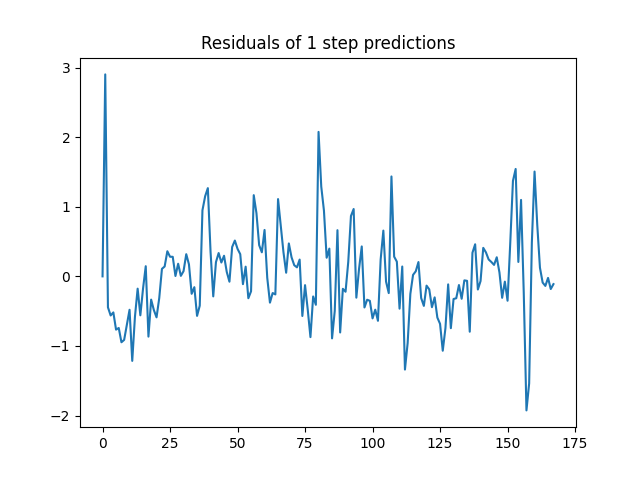
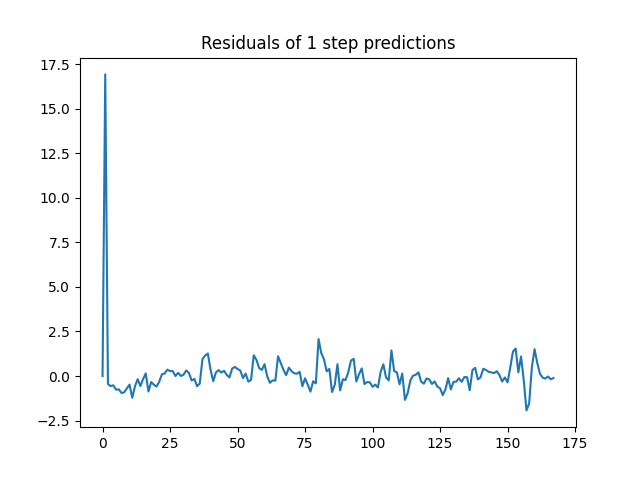
Fix index 1 error

diff --git a/exercise2_4.py b/exercise2_4.py
@@ -1,0 +1,213 @@
+import matplotlib.pyplot as plt
+import pandas as pd
+import numpy as np
+from scipy.optimize import minimize
+from statsmodels.graphics.tsaplots import plot_acf, plot_pacf
+import scipy.stats as stats
+from matplotlib.pyplot import cm
+
+# Load data
+df = pd.read_csv("transformer_data.csv")
+matrix = df.to_numpy()
+u = matrix[:, 2:]  # 3 exogenous inputs
+Y = df["Y"].values
+
+# ------------------------------
+# 2D Kalman Filter Setup
+# ------------------------------
+def unpack_parameters(theta):
+    A = theta[0:4].reshape(2, 2)         # A: 2x2
+    B = theta[4:10].reshape(2, 3)        # B: 2x3
+    C = theta[10:12].reshape(1, 2)       # C: 1x2
+    Q = np.diag(np.exp(theta[12:14]))    # Q: diagonal 2x2, exponentiated for positivity
+    R = np.exp(theta[14])               # R: scalar, exponentiated
+    x0 = theta[15:17]                   # Initial state: 2D
+    e = theta[17]                       # Observation bias
+    return A, B, C, Q, R, x0, e
+
+def kalman_filter(y, u, theta):
+    A, B, C, Q, R, x0, e = unpack_parameters(theta)
+    n = len(y)
+
+    x_pred = np.zeros((n, 2))
+    P_pred = np.zeros((n, 2, 2))
+    x_filt = np.zeros((n, 2))
+    P_filt = np.zeros((n, 2, 2))
+    log_likelihoods = np.zeros(n-1)
+    innov   = np.zeros(n)
+    S_t = np.zeros(n)
+    x_filt[0] = x0
+    P_filt[0] = np.eye(2)
+
+    for t in range(1, n):
+        # Predict
+        x_pred[t] = A @ x_filt[t-1] + B @ u[t-1]
+        P_pred[t] = A @ P_filt[t-1] @ A.T + Q
+
+        # Update
+        y_pred = C @ x_pred[t] + e
+        innov[t] = (y[t] - y_pred).item()
+        S_t[t] = ((C @ P_pred[t] @ C.T) + R).item()
+        K_t = P_pred[t] @ C.T / S_t[t]
+
+        x_filt[t] = x_pred[t] + (K_t.flatten() * innov[t])
+        P_filt[t] = (np.eye(2) - K_t @ C) @ P_pred[t]
+
+        log_likelihoods[t-1] = -0.5 * (np.log(2 * np.pi) + np.log(S_t[t]) + (innov[t] ** 2) / S_t[t])
+    log_likelihood = np.sum(log_likelihoods)
+
+    return x_pred, P_pred, x_filt, P_filt, innov, S_t, log_likelihood
+
+def negative_log_likelihood(theta, y, u):
+    *_, log_likelihood = kalman_filter(y, u, theta)
+    return -log_likelihood
+
+def estimate_model(y, u):
+    # Initial values
+    theta0 = np.array([
+        1, 0.0, 0.0, 1,            # A (flattened)
+        0.1, 0.0, 0.0,                 # B row 1
+        0.0, 0.1, 0.0,                 # B row 2
+        1.0, 0.0,                      # C
+        1, 1,      # Q diag (log for positivity)
+        1,                   # R (log for positivity)
+        20.0, 20.0,                      # x0
+        0.0                            # e
+    ])
+    bounds = [(-2,2)]*4 + [(-5,5)]*6 + [(-5,5)]*2 + [(None,None)]*6
+    result = minimize(negative_log_likelihood, theta0, args=(y, u),bounds = bounds,
+                      method="L-BFGS-B", options={'maxiter': 5000})
+    return result
+
+# Estimate
+result = estimate_model(Y, u)
+theta_hat = result.x
+print("Estimated parameters:", theta_hat)
+
+# Predict
+A, B, C, Q, R, x0, e = unpack_parameters(theta_hat)
+# run filter once more with the MLE
+x_p, P_p, x_filt, _, innov, _, _ = kalman_filter(Y, u, theta_hat)
+
+cols = cm.rainbow(np.linspace(0, 1, 3))   # three distinct colours
+
+fig, ax1 = plt.subplots(figsize=(10, 5))
+
+# -- latent states (primary axis) ---------------------------------------------
+ax1.plot(df["time"], x_filt[:, 0], label=r"$x_{1,t}$")
+ax1.plot(df["time"], x_filt[:, 1], label=r"$x_{2,t}$")
+
+# exogenous inputs Ta and S on the primary axis
+ax1.plot(df["time"], df["Ta"], color=cols[0], ls="--", alpha=0.5,
+         label=r"$T_{a,t}$")
+ax1.plot(df["time"], df["I"],  color=cols[1], ls="--", alpha=0.5,
+         label=r"$\Phi_{I,t}$")
+
+ax1.set_xlabel("Time")
+ax1.set_ylabel("State / Inputs")                    
+ax1.set_title("Kalman-filter state estimates and exogenous inputs")
+
+# -- secondary axis for I ------------------------------------------------------
+ax2 = ax1.twinx()
+ax2.plot(df["time"], df["S"], color=cols[2], ls="--", alpha=0.5,
+         label=r"$\Phi_{s,t}$")
+ax2.set_ylabel(r"$\Phi_{s,t}$ (secondary axis)")
+
+# -- combined legend -----------------------------------------------------------
+handles1, labels1 = ax1.get_legend_handles_labels()
+handles2, labels2 = ax2.get_legend_handles_labels()
+ax1.legend(handles1 + handles2, labels1 + labels2, loc="upper right")
+
+fig.tight_layout()
+fig.savefig("images/2.4/kalman_filter_state_estimates_w_exogenous.png")
+
+plt.clf()
+plt.plot(df["time"], x_filt)
+plt.title("Kalman Filter State Estimates")
+plt.xlabel("Time")
+plt.ylabel("State")
+plt.legend(["$x_{1,t}$", "$x_{2,t}$"])
+plt.savefig("images/2.4/kalman_filter_state_estimates.png")
+
+
+# Now we save Matrices A and B in csv format
+A = pd.DataFrame(A)
+A.to_csv("images/2.4/A.csv", index=False)
+B = pd.DataFrame(B)
+B.to_csv("images/2.4/B.csv", index=False)
+# # ------------------------------
+
+# # point forecast of yₜ
+# Y_pred = (C @ x_p.T).ravel() + e  
+# residuals = Y - Y_pred
+# stderr = np.sqrt((C @ P_p @ C.T).ravel() + R)
+# Y_pred_lower = Y_pred-1.96*stderr
+# Y_pred_higher  =  Y_pred+1.96*stderr
+
+# # ------------------------------
+# # Plotting
+# # ------------------------------
+# #Simple conf interval with true y
+# plt.plot(Y_pred_lower, label = "Conf interval", color = "black", linestyle='-',linewidth=0.5)   
+# plt.plot(Y_pred_higher, color = "black", linestyle='-',linewidth=0.5)
+# plt.plot(df["Y"], label="True $y_t$")
+# plt.plot(Y_pred, label="$\\hat{Y}_{t+1|t}$", linestyle='-.')
+# plt.legend()
+# plt.title("Kalman Filtering Results (2d)")
+# plt.savefig(f"images/2.3/Conf_interval_1step.png")
+# plt.clf()
+
+
+# ###3
+
+# # Combined plot for residual diagnostics
+# fig, axes = plt.subplots(2, 2, figsize=(12, 8))
+
+# # Residual time series
+# axes[0, 0].plot(residuals)
+# axes[0, 0].set_title("Residuals")
+# axes[0, 0].grid()
+
+# # ACF
+# plot_acf(innov[1:], lags=40, ax=axes[0, 1])
+# axes[0, 1].set_title("ACF of Residuals")
+
+# # PACF
+# plot_pacf(innov[1:], lags=40, ax=axes[1, 0])
+# axes[1, 0].set_title("PACF of Residuals")
+
+# # QQ-plot
+# stats.probplot(innov[1:], dist="norm", plot=axes[1, 1])
+# axes[1, 1].set_title("QQ-plot of Residuals")
+# axes[1, 1].grid()
+
+# plt.tight_layout()
+# plt.savefig("images/2.3/stats.png")
+
+
+# # 2) AIC and BIC
+# n = len(Y)
+# k = len(theta_hat)
+# lnL =LL = -negative_log_likelihood(theta_hat, Y, u)
+
+
+# AIC = 2*k - 2*lnL
+# BIC = k*np.log(n) - 2*lnL
+
+# print(f"AIC = {AIC:.2f}")
+# print(f"BIC = {BIC:.2f}")
+
+# # (Optionally save to file or DataFrame)
+# info = pd.DataFrame({
+#     "stat": ["n_obs","n_params","logLik","AIC","BIC"],
+#     "value": [n, k, lnL, AIC, BIC]
+# })
+# info.to_csv(f"images/2.3/info_criteria.csv", index=False)
+
+
+
+# params = pd.DataFrame({
+#     "params": ["A", "B", "C", "Q", "R", "x0",],
+#     "value": [A, B, C, Q, R, x0]
+# })
+# params.to_csv(f"images/2.3/params.csv", index=False)

diff --git a/exercise2_3.py b/exercise2_3.py
@@ -21,11 +21,10 @@ def unpack_parameters(theta):
     Q = np.diag(np.exp(theta[12:14]))    # Q: diagonal 2x2, exponentiated for positivity
     R = np.exp(theta[14])               # R: scalar, exponentiated
     x0 = theta[15:17]                   # Initial state: 2D
-    e = theta[17]                       # Observation bias
-    return A, B, C, Q, R, x0, e
+    return A, B, C, Q, R, x0
 
 def kalman_filter(y, u, theta):
-    A, B, C, Q, R, x0, e = unpack_parameters(theta)
+    A, B, C, Q, R, x0 = unpack_parameters(theta)
     n = len(y)
 
     x_pred = np.zeros((n, 2))
@@ -44,7 +43,7 @@ def kalman_filter(y, u, theta):
         P_pred[t] = A @ P_filt[t-1] @ A.T + Q
 
         # Update
-        y_pred = C @ x_pred[t] + e
+        y_pred = C @ x_pred[t]
         innov[t] = (y[t] - y_pred).item()
         S_t[t] = ((C @ P_pred[t] @ C.T) + R).item()
         K_t = P_pred[t] @ C.T / S_t[t]
@@ -64,19 +63,19 @@ def negative_log_likelihood(theta, y, u):
 def estimate_model(y, u):
     # Initial values
     theta0 = np.array([
-        0.8, 0.0, 0.0, 0.7,            # A (flattened)
+        1, 0.0, 0.0, 1,            # A (flattened)
         0.1, 0.0, 0.0,                 # B row 1
         0.0, 0.1, 0.0,                 # B row 2
-        1.0, 0.0,                      # C
-        0.1, 0.1,      # Q diag (log for positivity)
-        0.1,                   # R (log for positivity)
-        0.0, 0.0,                      # x0
-        0.0                            # e
+        1, 0,                      # C
+        1, 1,      # Q diag (log for positivity)
+        1,                   # R (log for positivity)
+        20.0, 20.0                      # x0
     ])
-    bounds = [(-2,2)]*4 + [(-5,5)]*6 + [(-5,5)]*2 + [(None,None)]*6
+    bounds = [(-2,2)]*4 + [(-5,5)]*6 + [(-5,5)]*2 + [(None,None)]*5
     result = minimize(negative_log_likelihood, theta0, args=(y, u),bounds = bounds,
                       method="L-BFGS-B", options={'maxiter': 5000})
     return result
+
 
 # Estimate
 result = estimate_model(Y, u)
@@ -84,14 +83,14 @@ theta_hat = result.x
 print("Estimated parameters:", theta_hat)
 
 # Predict
-A, B, C, Q, R, x0, e = unpack_parameters(theta_hat)
+A, B, C, Q, R, x0 = unpack_parameters(theta_hat)
 # run filter once more with the MLE
-x_p, P_p, _, _, innov, _, _ = kalman_filter(Y, u, theta_hat)
+x_p, P_p, x_filt, _, innov, _, _= kalman_filter(Y, u, theta_hat)
 
 # point forecast of yₜ
-Y_pred = (C @ x_p.T).ravel() + e  
-residuals = Y - Y_pred
-stderr = np.sqrt((C @ P_p @ C.T).ravel() + R)
+Y_pred = (C @ x_p[1:].T).ravel()  
+residuals = Y[1:] - Y_pred
+stderr = np.sqrt((C @ P_p[1:] @ C.T).ravel() + R)
 Y_pred_lower = Y_pred-1.96*stderr
 Y_pred_higher  =  Y_pred+1.96*stderr
 
@@ -101,11 +100,11 @@ Y_pred_higher  =  Y_pred+1.96*stderr
 #Simple conf interval with true y
 plt.plot(Y_pred_lower, label = "Conf interval", color = "black", linestyle='-',linewidth=0.5)   
 plt.plot(Y_pred_higher, color = "black", linestyle='-',linewidth=0.5)
-plt.plot(df["Y"], label="True $y_t$")
+plt.plot(df["Y"][1:], label="True $y_t$")
 plt.plot(Y_pred, label="$\\hat{Y}_{t+1|t}$", linestyle='-.')
 plt.legend()
 plt.title("Kalman Filtering Results (2d)")
-plt.savefig(f"images/2.3/Conf_interval_1step.png")
+plt.savefig(f"images/2.3/ex2_3_confidence_int_prediction.png")
 plt.clf()
 
 
@@ -133,7 +132,7 @@ axes[1, 1].set_title("QQ-plot of Residuals")
 axes[1, 1].grid()
 
 plt.tight_layout()
-plt.savefig("images/2.3/stats.png")
+plt.savefig("images/2.3/ex2_3_stats.png")
 
 
 # 2) AIC and BIC

diff --git a/harh/exercise2_2_harh.py b/harh/exercise2_2_harh.py
@@ -89,7 +89,7 @@ C = (np.random.rand()-0.5)*2
 Q = 1
 R = 1
 X0 = np.random.rand()+19.5
-P0 = 200
+P0 = 1
 df = raw
 start = np.concatenate([
     [A],       # 0
@@ -104,21 +104,21 @@ U = df[["Ta","S","I"]].values
 x_pred, P_pred, innovations, S, x_filt, P_filt, neglogLik = kf_logLik_dt(result.x,y,U)
 print("done")
 
-Y_pred = result.x[4]*x_pred
+Y_pred = result.x[4]*x_pred[1:]
 R = result.x[6]
 C = result.x[4]
-stderr = np.sqrt(C**2 * P_pred + R)
+stderr = np.sqrt(C**2 * P_pred[1:] + R)
 Y_pred_lower = Y_pred-1.96*stderr
 Y_pred_higher  =  Y_pred+1.96*stderr
 
 #Simple conf interval with true y
 plt.plot(Y_pred_lower, label = "Conf interval", color = "black", linestyle='-',linewidth=0.5)   
 plt.plot(Y_pred_higher, color = "black", linestyle='-',linewidth=0.5)
-plt.plot(df["Y"], label="True $y_t$")
+plt.plot(df["Y"][1:], label="True $y_t$")
 plt.plot(Y_pred, label="$\\hat{Y}_{t+1|t}$", linestyle='-.')
 plt.legend()
 plt.title("Kalman Filtering Results (1d)")
-plt.savefig(f"{PARENT_DIR}/images/2.2/Conf_interval_1step.png")
+plt.savefig(f"{PARENT_DIR}/images/2.2/ex2_2_confidence_int_prediction.png")
 plt.clf()
 
 #Simple plot of innovation
@@ -182,21 +182,21 @@ fig, axes = plt.subplots(2, 2, figsize=(12, 10))
 (ax_resid, ax_qq), (ax_acf, ax_pacf) = axes
 
 # 1) One‑step residuals
-ax_resid.plot(innovations, label="Residuals")
+ax_resid.plot(innovations[1:], label="Residuals")
 ax_resid.set_title("Residuals of 1‑Step Predictions")
 ax_resid.legend()
 
 # 2) QQ–plot of residuals
-sm.qqplot(innovations, line="45", fit=True, ax=ax_qq)   # send it to the right axes
+sm.qqplot(innovations[1:], line="45", fit=True, ax=ax_qq)   # send it to the right axes
 ax_qq.set_title("QQ-Plot of One-Step Residuals")
 
 # 3) ACF of residuals
-plot_acf(innovations, lags=lags, ax=ax_acf)
+plot_acf(innovations[1:], lags=lags, ax=ax_acf)
 ax_acf.set_title("ACF of 1‑Step Residuals")
 
 # 4) PACF of residuals
-plot_pacf(innovations, lags=lags, ax=ax_pacf, method="ywm")
+plot_pacf(innovations[1:], lags=lags, ax=ax_pacf, method="ywm")
 ax_pacf.set_title("PACF of 1‑Step Residuals")
 
 plt.tight_layout()
-plt.savefig(f"{PARENT_DIR}/images/2.2/diagnostic_2x2.png")
+plt.savefig(f"{PARENT_DIR}/images/2.2/ex2_2_stats.png")

diff --git a/harh/exercise1_2.py b/harh/exercise1_2.py
@@ -1,6 +1,6 @@
 import numpy as np
 import matplotlib.pyplot as plt
-def simulated(a=1,b=0.9,sigma1=1,v=None):
+def simulated(a=0.9,b=1,sigma1=1,v=None):
     #parameters
     sigma2 = 1  
     X0 = 5
@@ -32,6 +32,7 @@ def simulated(a=1,b=0.9,sigma1=1,v=None):
 X,Y = simulated()
 #plotting
 if __name__ == "__main__":
+    np.random.seed(2025)
     plt.figure(figsize=(10, 6))
     plt.plot(X, label="$X_t$ (true state)", linewidth=2)
     plt.plot(Y, label="$Y_t$ (observed)", linestyle='--')
